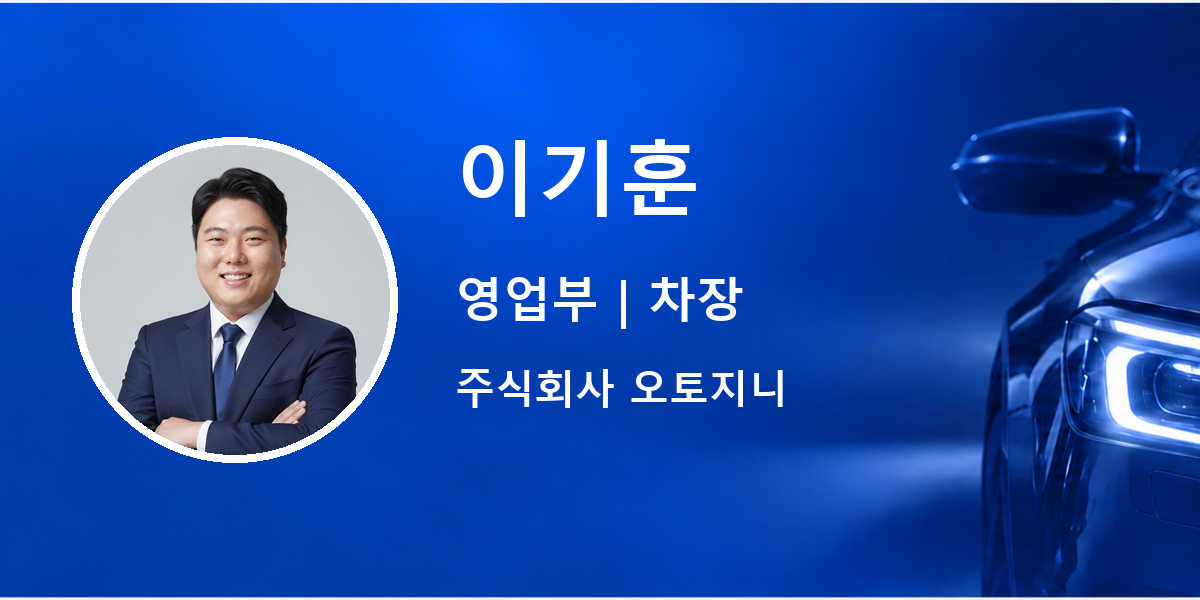
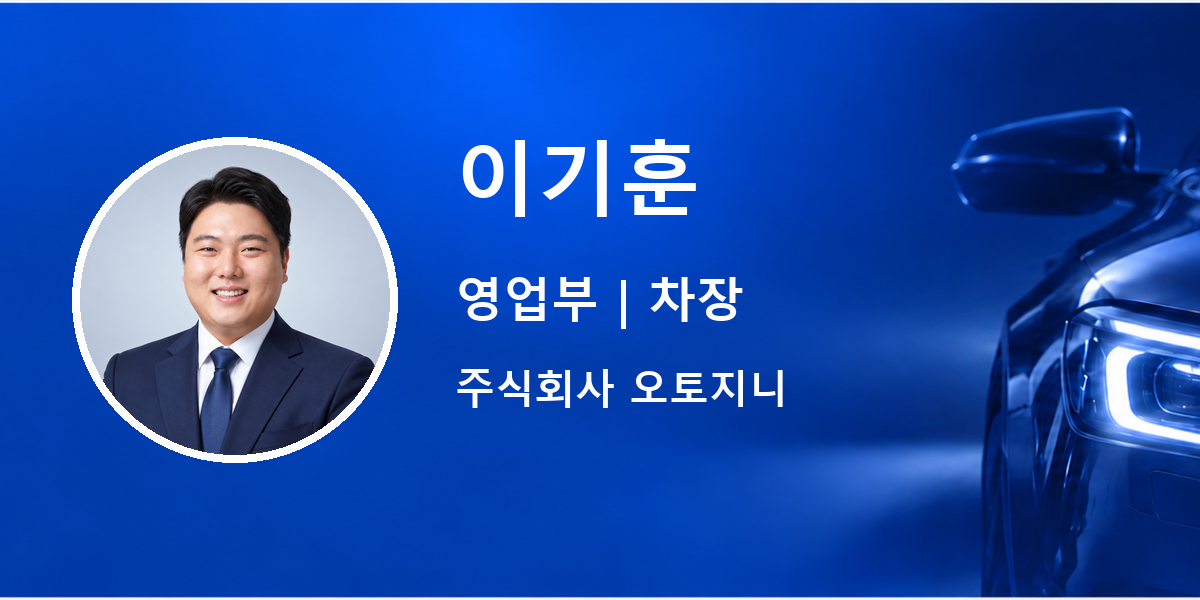
이미지 수정

Changed region(s): [[0.0617, 0.27, 0.3083, 0.75]]

diff --git a/cards/이기훈/index.html b/cards/이기훈/index.html
@@ -69,7 +69,7 @@
   <main class="card-page">
     <section class="profile">
       <div class="profile__top">
-        <img class="avatar" id="profilePhoto" src="../../sales_profiles/%EC%9D%B4%EA%B8%B0%ED%9B%88/%EC%9D%B4%EA%B8%B0%ED%9B%88.jpg" alt="이기훈 프로필 사진">
+        <img class="avatar" id="profilePhoto" src="../../sales_profiles/%EC%9D%B4%EA%B8%B0%ED%9B%88/%EC%9D%B4%EA%B8%B0%ED%9B%88.png" alt="이기훈 프로필 사진">
 
         <div class="profile__heading">
           <h1 id="profileName">이기훈</h1>

diff --git a/cards/황대훈/index.html b/cards/황대훈/index.html
@@ -69,7 +69,7 @@
   <main class="card-page">
     <section class="profile">
       <div class="profile__top">
-        <img class="avatar" id="profilePhoto" src="../../sales_profiles/%ED%99%A9%EB%8C%80%ED%9B%88/%ED%99%A9%EB%8C%80%ED%9B%88.jpg" alt="황대훈 프로필 사진">
+        <img class="avatar" id="profilePhoto" src="../../sales_profiles/%ED%99%A9%EB%8C%80%ED%9B%88/%ED%99%A9%EB%8C%80%ED%9B%88.png" alt="황대훈 프로필 사진">
 
         <div class="profile__heading">
           <h1 id="profileName">황대훈</h1>
